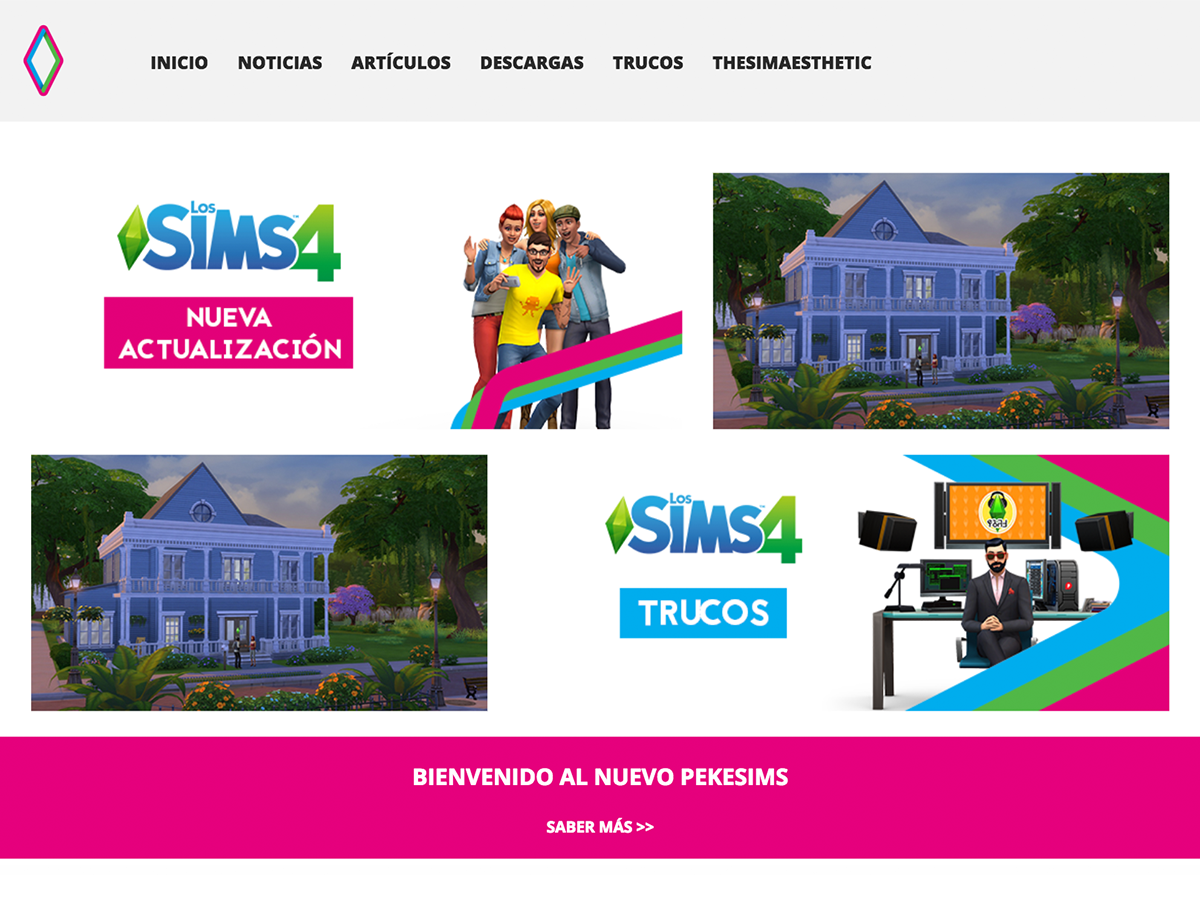
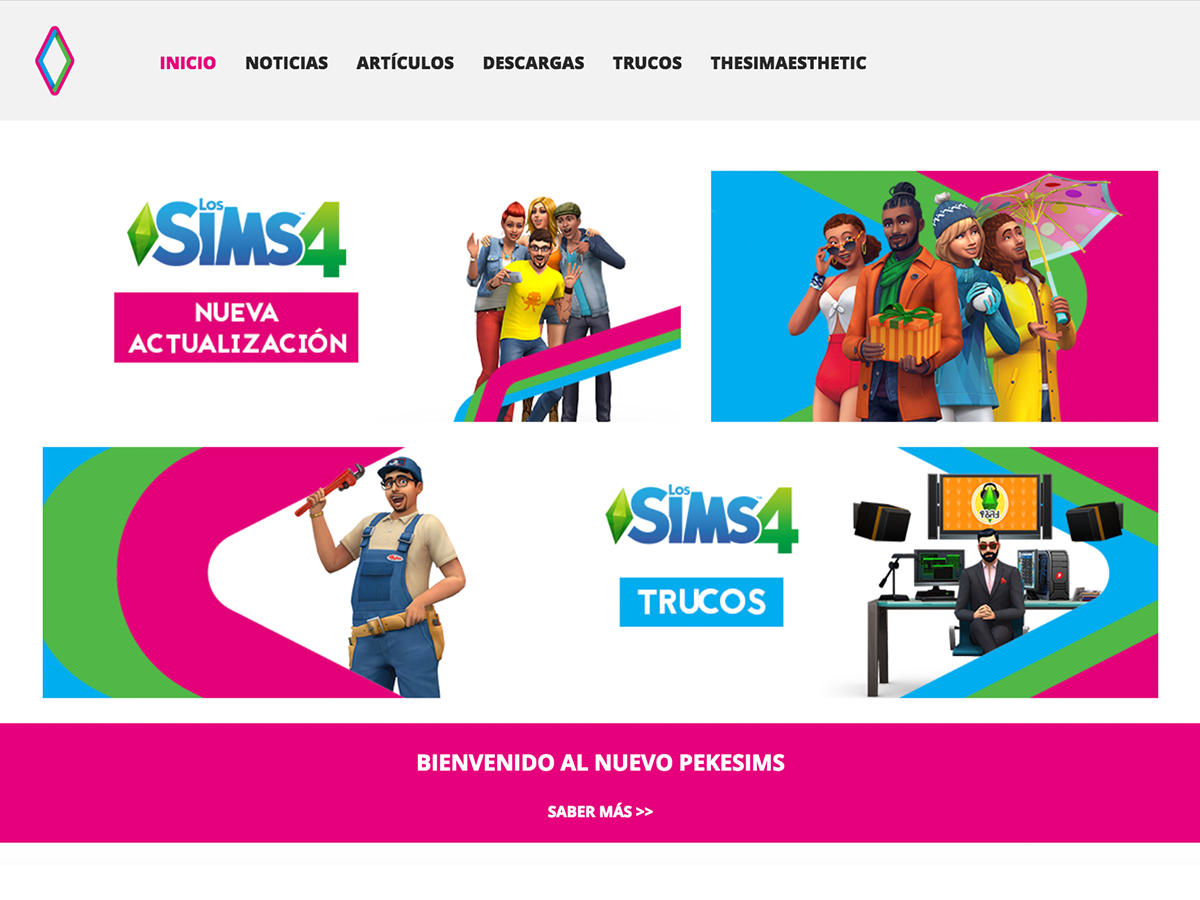
404 fix / img fluid fix / Featured home fix / RC2

diff --git a/css/style.css b/css/style.css
@@ -426,6 +426,7 @@ img{
     overflow: auto;
     height: 100%;
     max-width: 285px;
+    background-color: #fff;
   }
 
   .widget-area img{
@@ -436,6 +437,15 @@ img{
   .phoenix-sidebar .widget-title{
     font-weight: 800;
     font-size: 22px;
+  }
+
+  .mailchimp-title{
+    color: #fff;
+  }
+
+  .mailchimp-title span{
+    background-color: #e5007d;
+    padding: 0 10px;
   }
 
   .sk-list{
@@ -451,7 +461,7 @@ img{
   }
 
   .current-menu-item a{
-    color: #e5007d;
+    color: #e5007d !important;
   }
 
   .sub-menu{
@@ -610,26 +620,8 @@ img{
     padding: 0 20px;
   }
 
-  #individual-content .post-video-container{
-    position: relative;
-    padding-bottom: 56.25%;
-    padding-top: 30px;
-    height: 0;
-    overflow: hidden;
-    margin: 0 50px 0 0;
-    clear: both;
-  }
-
-  #individual-content .post-video-container iframe{
-    position: absolute;
-    top: 0;
-    left: 0;
-    width: 100%;
-    height: 100%;
-  }
-
   #individual-content img{
-    width: 100%;
+    max-width: 100%;
     height: auto;
   }
 

diff --git a/style.css b/style.css
@@ -4,7 +4,7 @@ Theme URI: http://underscores.me/
 Author: AG Design x pekesims
 Author URI: http://agdesign.es
 Description: Phoenix is a modern and responsive theme made exclusively for pekesims, one of biggest fansite about The Sims in Spanish
-Version: 0.8.0-alpha
+Version: 0.9-beta
 License: GNU General Public License v2 or later
 License URI: LICENSE
 Text Domain: phoenix

diff --git a/js/main.js b/js/main.js
@@ -4,8 +4,6 @@ $(document).ready(function(){
         $('.mobile-menu').toggleClass('open');
     });
 
-    $("#individual-article iframe").wrap("<div class='post-video-container'/>");
-
     $( "li.menu-item" ).hover(function() {  // mouse enter
     $( this ).find( " > .sub-menu" ).show(); // display immediate child
 

diff --git a/page-home.php b/page-home.php
@@ -27,8 +27,11 @@ get_header();
 	    <div class="feat-article"><img class="img-fluid feat-img" src="<?php the_sub_field( 'imagen_1' ); ?>" alt="<?php the_sub_field( 'titulo_1' ); ?>"/>
 	    <?php } ?>
 	      <div class="hover-featured">
-	        <div class="featured-text"><a href="<?php the_sub_field( 'enlace_1' ); ?>">
+	      	<?php $enlace_1 = get_sub_field( 'enlace_1' ); ?>
+	      	<?php if ( $enlace_1 ) { ?>
+	        <div class="featured-text"><a href="<?php echo $enlace_1; ?>">>
 	            <h2><?php the_sub_field( 'titulo_1' ); ?></h2></a>
+	        <?php } ?>
 	        </div>
 	      </div>
 	    </div>
@@ -37,9 +40,12 @@ get_header();
 	  	<?php if ( get_sub_field( 'imagen_2' ) ) { ?>
 	    <div class="feat-article"><img class="img-fluid feat-img" src="<?php the_sub_field( 'imagen_2' ); ?>" alt="<?php the_sub_field( 'titulo_2' ); ?>"/>
 	    <?php } ?>
-	      <div class="hover-featured">
-	        <div class="featured-text"><a href="<?php the_sub_field( 'enlace_2' ); ?>">
-	          <h2><?php the_sub_field( 'titulo_2' ); ?></h2></a>
+	    	<div class="hover-featured">
+	      <?php $enlace_2 = get_sub_field( 'enlace_2' ); ?>
+	      	<?php if ( $enlace_2 ) { ?>
+	        <div class="featured-text"><a href="<?php echo $enlace_2; ?>">
+	            <h2><?php the_sub_field( 'titulo_2' ); ?></h2></a>
+	        <?php } ?>
 	        </div>
 	      </div>
 	    </div>
@@ -56,8 +62,11 @@ get_header();
 	    <div class="feat-article"><img class="img-fluid feat-img" src="<?php the_sub_field( 'imagen_3' ); ?>" alt="<?php the_sub_field( 'titulo_3' ); ?>"/>
 	    <?php } ?>
 	      <div class="hover-featured">
-	        <div class="featured-text"><a href="<?php the_sub_field( 'enlace_3' ); ?>">
-	          <h2><?php the_sub_field( 'titulo_3' ); ?></h2></a>
+	        <?php $enlace_3 = get_sub_field( 'enlace_3' ); ?>
+	      	<?php if ( $enlace_3 ) { ?>
+	        <div class="featured-text"><a href="<?php echo $enlace_3; ?>">>
+	            <h2><?php the_sub_field( 'titulo_3' ); ?></h2></a>
+	        <?php } ?>
 	        </div>
 	      </div>
 	    </div>
@@ -67,8 +76,11 @@ get_header();
 	    <div class="feat-article"><img class="img-fluid feat-img" src="<?php the_sub_field( 'imagen_4' ); ?>" alt="<?php the_sub_field( 'titulo_4' ); ?>"/>
 	    <?php } ?>
 	      <div class="hover-featured">
-	        <div class="featured-text"><a href="<?php the_sub_field( 'enlace_4 ') ?>">
+	        <?php $enlace_4 = get_sub_field( 'enlace_4' ); ?>
+	      	<?php if ( $enlace_4 ) { ?>
+	        <div class="featured-text"><a href="<?php echo $enlace_4; ?>">>
 	            <h2><?php the_sub_field( 'titulo_4' ); ?></h2></a>
+	        <?php } ?>
 	        </div>
 	      </div>
 	    </div>

diff --git a/template-parts/content.php b/template-parts/content.php
@@ -18,7 +18,7 @@
   <div class="col-lg-9">
     <div class="row">
       <div class="col-lg-12">
-        <div id="individual-content">
+        <div id="individual-content" class="post-content">
           <?php the_content(); ?>
         </div>
         <div class="single-categories">

diff --git a/404.php b/404.php
@@ -13,7 +13,7 @@ get_header();
 <div id="notfound-page" class="container">
 	<div class="row">
 		<div class="col-xl-auto">
-			<h1 class="archive-title">404: no encontrado</h1>
+			<h1 class="archive-title"><span>404: no encontrado</span></h1>
 		</div>
 	</div>
 	<div class="row">
